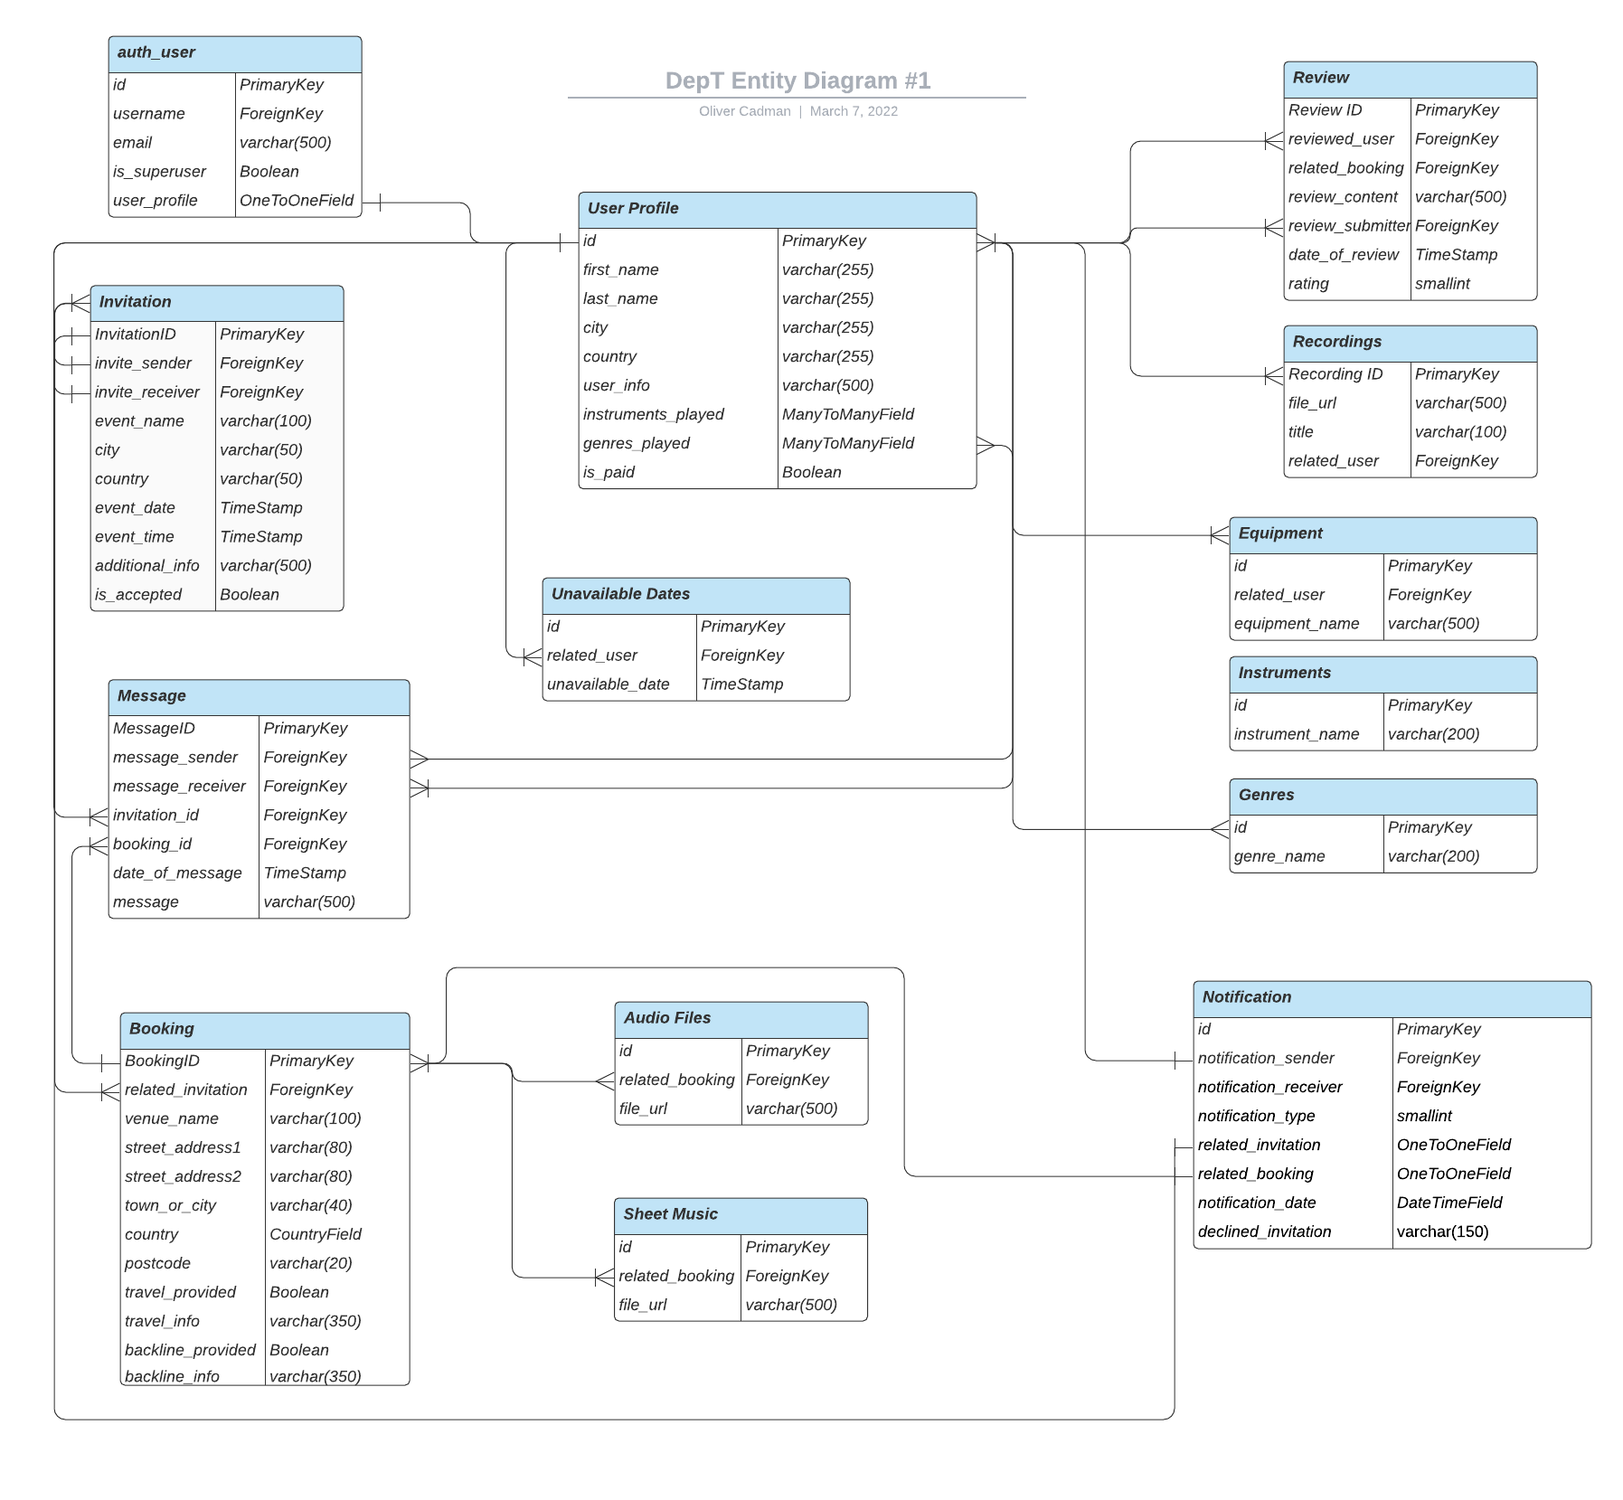
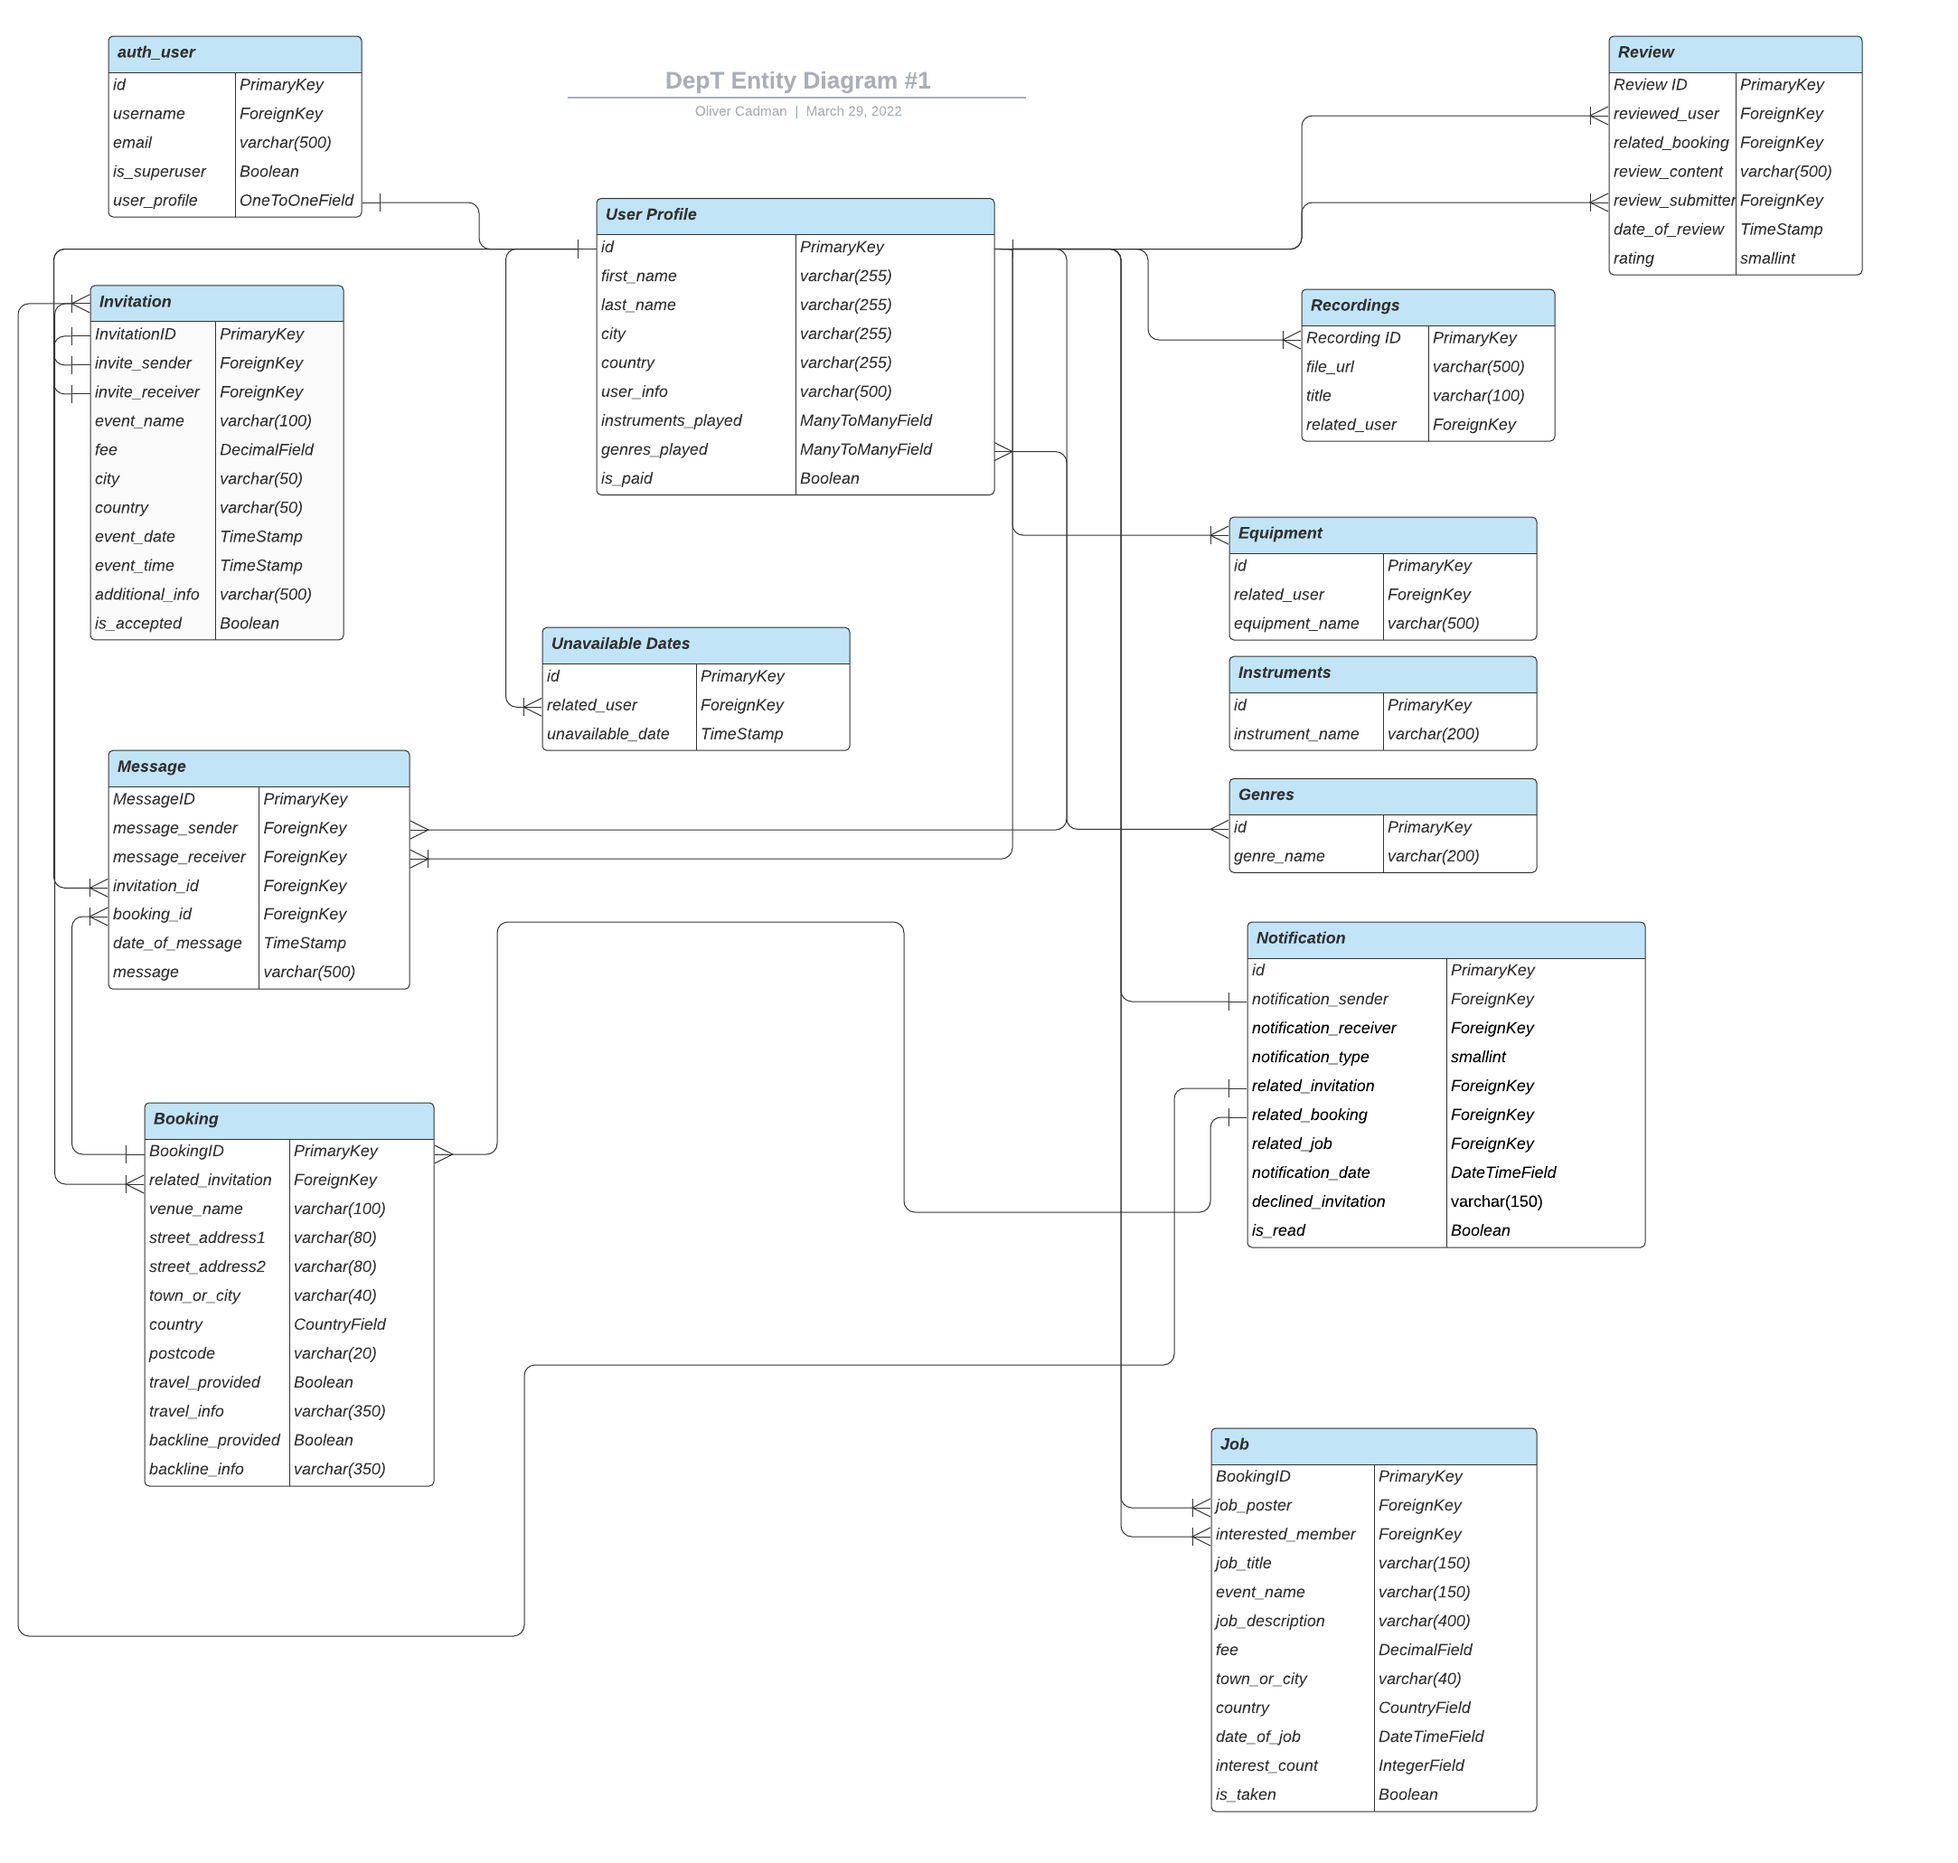
Corrected ER diagram 4

diff --git a/README.md b/README.md
@@ -88,7 +88,7 @@ As a Tier Two member of the website, I want...
 
 1. All privileges provided by Tier One Membership.
 2. To have access to a job listing, so I can find jobs that are in my area.
-3. To be able to filter jobs by location or type (live performance, session work etc) so I can more granularly search for a suitable job.
+3. To be able to filter jobs by location or fee range, so I can more granularly search for a suitable job.
 4. To be listed at the top of searches when a potential client/musician is searching for a dep, so I can have a better chance of getting the work.
 
 #### Members in need of a Dep
@@ -339,12 +339,6 @@ The project makes use of the SQlite Relational Database to handle data served th
 
 ![Database Schema (Iteration 4) for Dept Website](documentation/er_diagram/dept_er_diagram_4.png)
 
-#### Iteration 5
-
-![Database Schema (Iteration 5) for Dept Website](documentation/er_diagram/dept_er_diagram_5.png)
-
-
-
 ## Skeleton
 
 ### Wireframes
@@ -364,41 +358,5 @@ The project makes use of the SQlite Relational Database to handle data served th
 * [Booking Form](documentation/wireframes/dept_booking_form.pdf)
 * [Booking Confirmation](documentation/wireframes/dept_booking_confirmation.pdf)
 * [Messages](documentation/wireframes/dept_messages.pdf)
-
-
-
-
-
-
-
-
-
-
-
-
-
-
-
-
-
-
-
-
-
-
-
-
-
-
-
-
-
-
-
-
-
-
-
-
 
 
